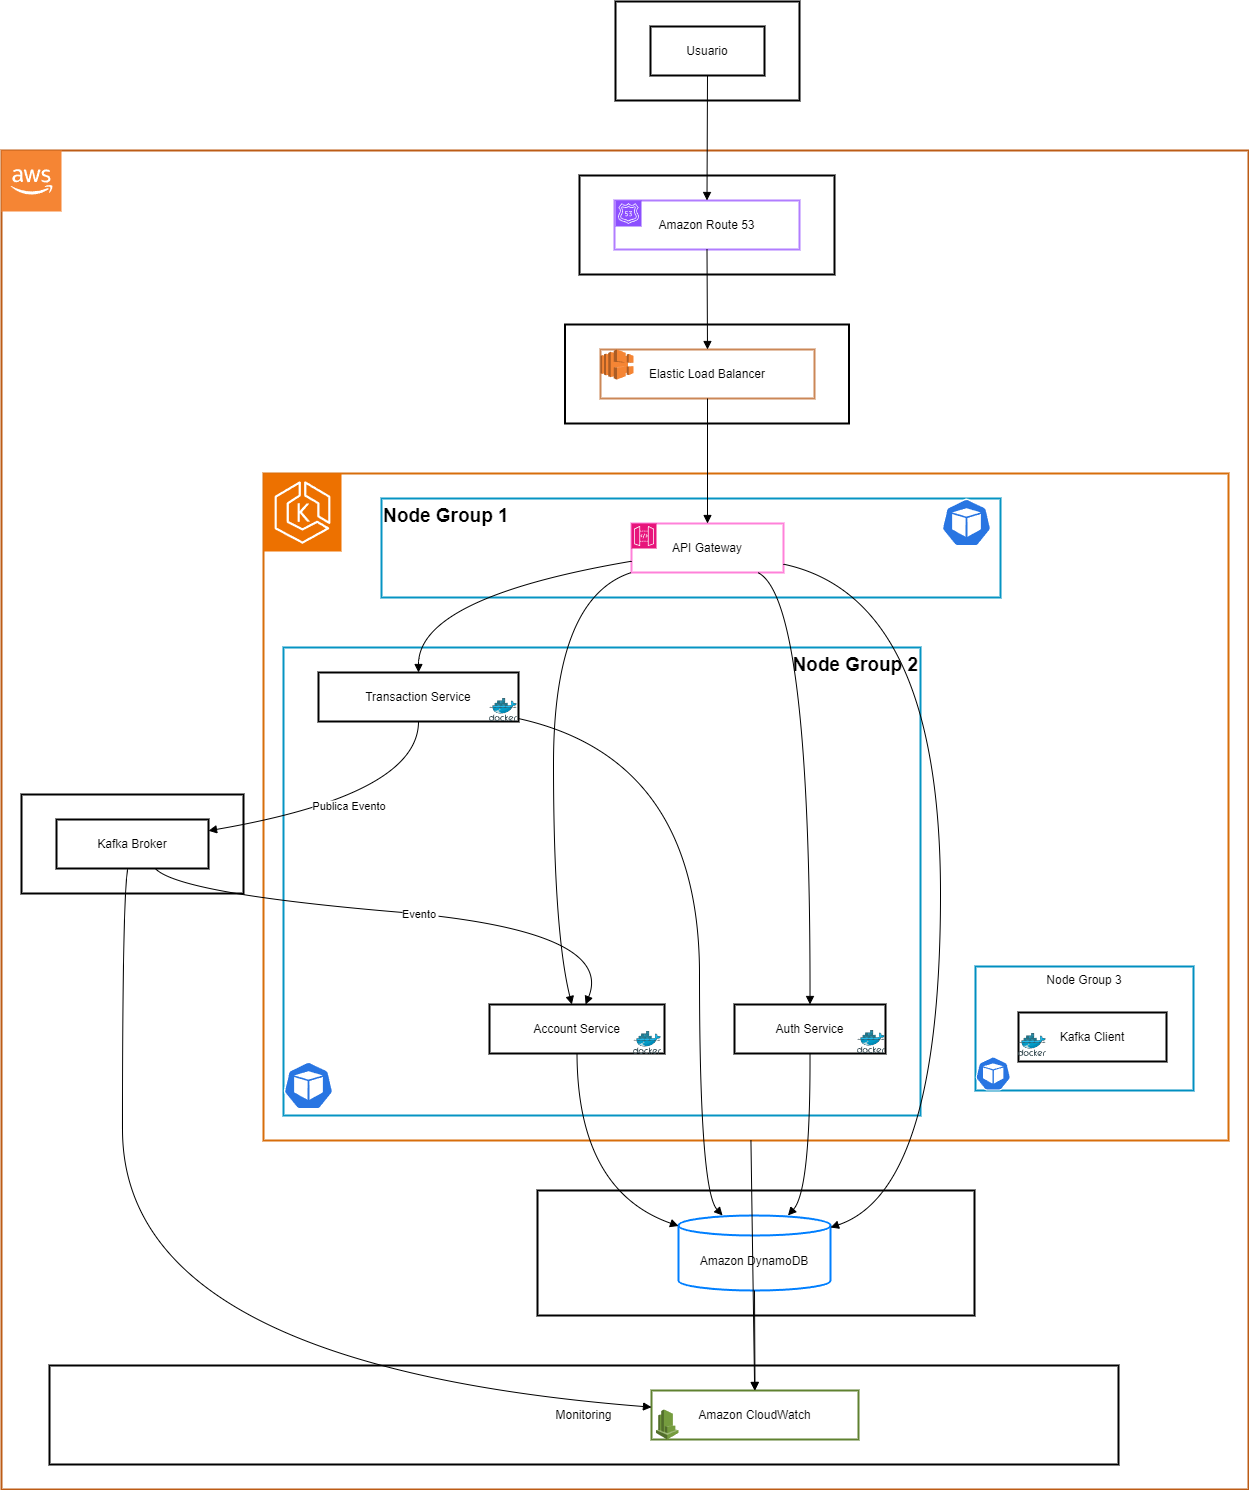
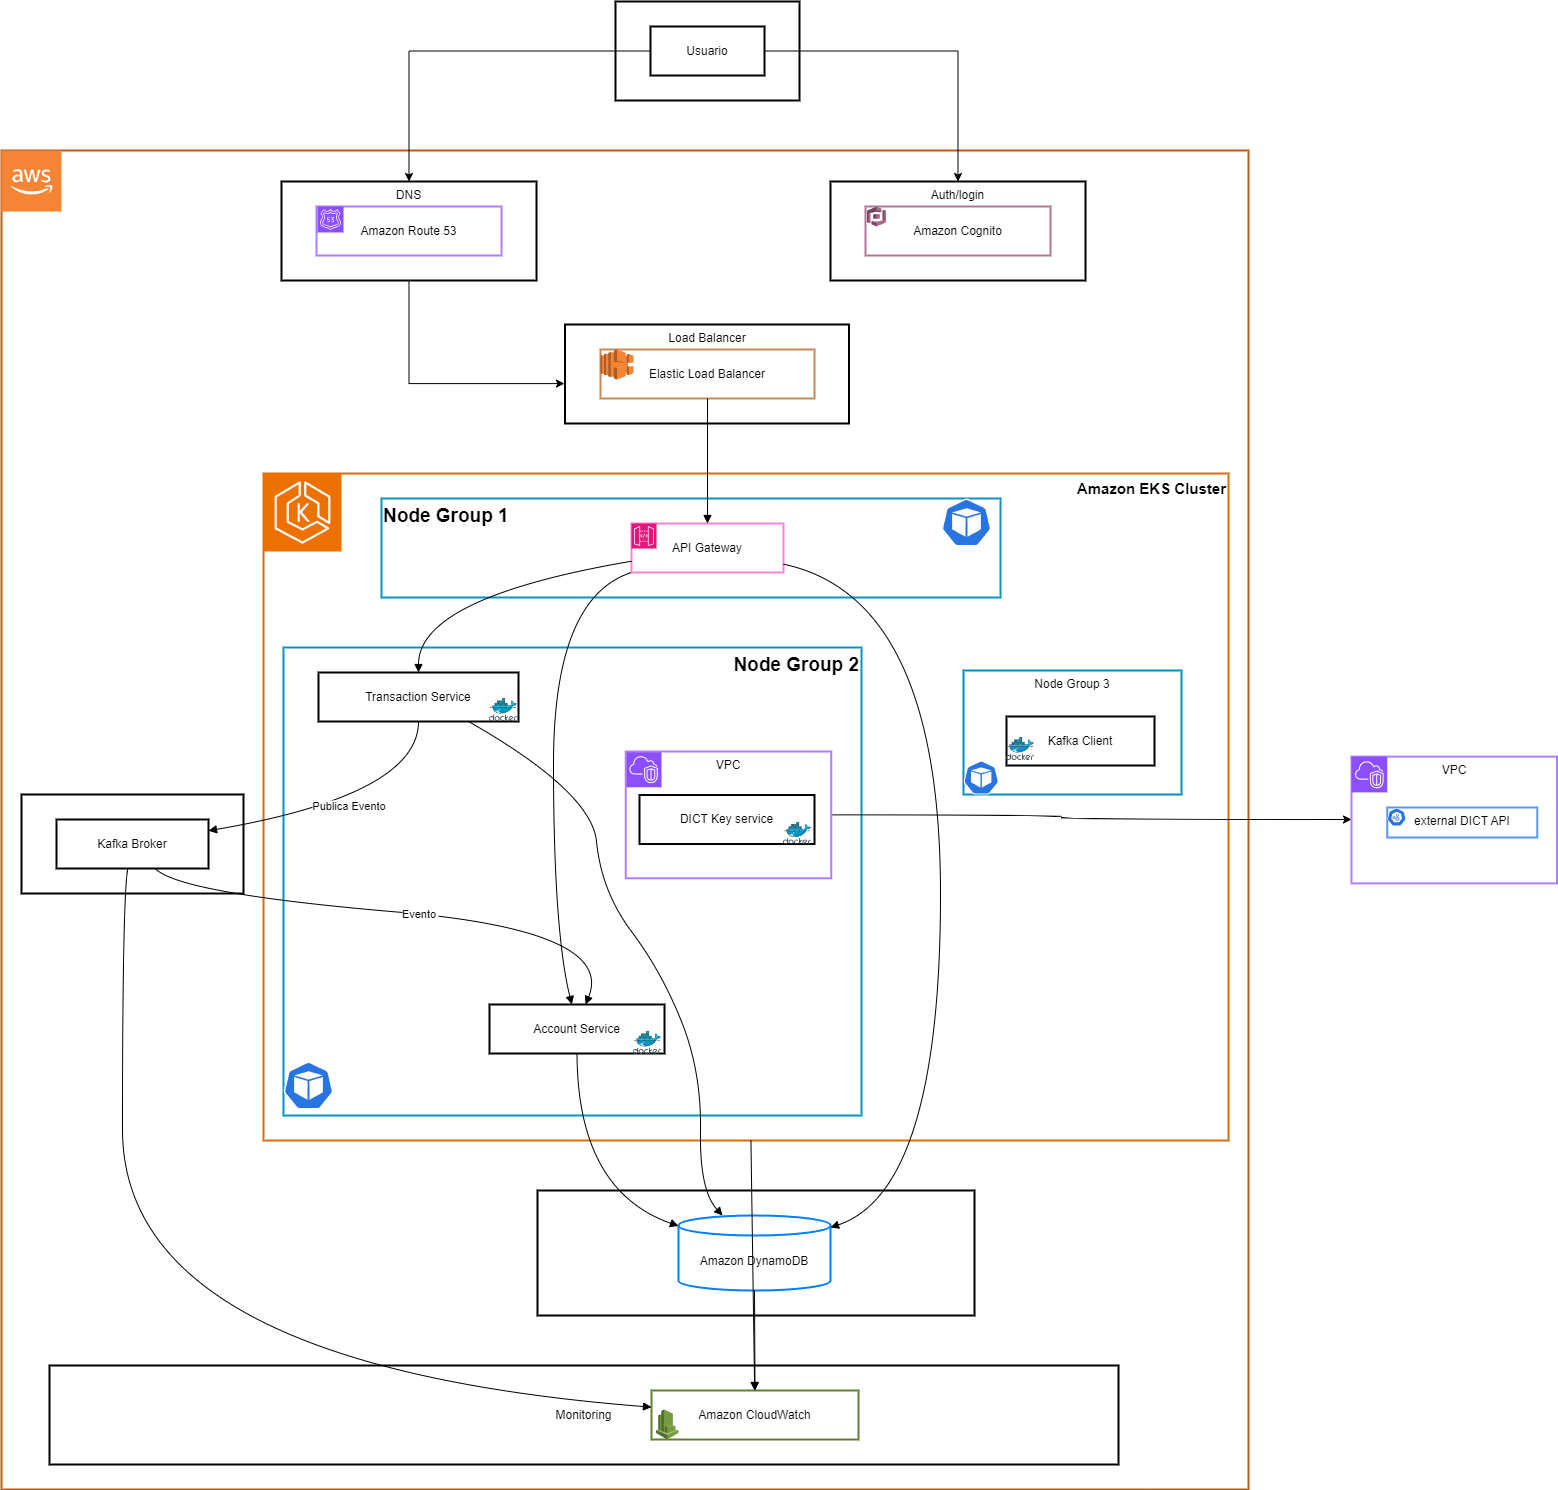
update readme.md

diff --git a/README.md b/README.md
@@ -4,122 +4,141 @@
 
 ## Visão Geral
 
-GO Banking é um serviço backend que simula uma plataforma financeira, permitindo que usuários realizem transferências entre contas de qualquer banco no Brasil, utilizando Open Finance e Pix. O serviço fornece uma visão consolidada dos saldos dos usuários em diferentes bancos e possibilita transferências entre contas.
+GO Banking é um serviço backend que simula uma plataforma financeira, permitindo que usuários realizem transferências entre contas de qualquer banco no Brasil, utilizando Open Finance e Pix. O serviço fornece uma visão consolidada dos saldos dos usuários e possibilita transferências entre contas.
 
 ## Objetivos
 
 O principal objetivo deste projeto é explorar e aprender sobre desenvolvimento backend, design de sistemas e tecnologias modernas como microserviços, arquitetura orientada a eventos, Kubernetes, Docker e serviços da AWS.
 
-## Arquitetura Detalhada
+## Arquitetura Atualizada
 
-A arquitetura é baseada em microserviços, hospedada na AWS, containerizada com Docker e orquestrada com Kubernetes (AWS EKS). Cada componente é implementado como um serviço independente em um contêiner Docker, implantado em pods dentro do cluster Kubernetes.
+A arquitetura é baseada em microserviços, hospedada na AWS, containerizada com Docker e orquestrada com Kubernetes (AWS EKS). Com a adoção do **AWS Cognito**, o serviço de autenticação customizado foi substituído por um serviço gerenciado, simplificando a arquitetura e aumentando a segurança.
 
 ### Componentes e Serviços AWS
 
+#### AWS Cognito
+
+- **Descrição:** Serviço gerenciado para autenticação, autorização e gerenciamento de usuários.
+- **Uso no Projeto:** Gerencia o registro, login e autenticação dos usuários. Emite tokens JWT usados para autenticação nas APIs.
+
 #### AWS Elastic Kubernetes Service (EKS)
 
-- **Descrição**: Serviço gerenciado de Kubernetes que facilita a execução de clusters Kubernetes na AWS.
-- **Uso no Projeto**: Hospeda o cluster Kubernetes onde os contêineres Docker dos microserviços são implantados.
+- **Descrição:** Serviço gerenciado de Kubernetes.
+- **Uso no Projeto:** Hospeda os microserviços containerizados.
 
 #### Docker Containers
 
-- Cada microserviço é empacotado em um contêiner Docker para garantir consistência e portabilidade.
-- **Contêineres**:
-  - **API Gateway Container**: Gerencia as solicitações dos clientes e roteia para os serviços apropriados.
-  - **Auth Service Container**: Responsável pela autenticação e autorização dos usuários.
-  - **Account Service Container**: Gerencia informações das contas e saldos dos usuários.
-  - **Transaction Service Container**: Lida com a criação e processamento das transações.
-  - **Event Consumer Containers**: Consumidores que processam eventos do Kafka.
+- **Contêineres:**
+  - **API Gateway Container:** Gerencia solicitações e integra-se com o Cognito para autenticação.
+  - **Account Service Container:** Gerencia informações de contas e saldos.
+  - **Transaction Service Container:** Lida com transações e interage com o Kafka.
+  - **Event Consumer Containers:** Processam eventos do Kafka.
 
 #### AWS Managed Streaming for Apache Kafka (Amazon MSK)
 
-- **Descrição**: Serviço gerenciado para executar clusters Apache Kafka na AWS.
-- **Uso no Projeto**: Serve como o barramento de eventos para comunicação orientada a eventos entre os serviços.
+- **Descrição:** Serviço gerenciado para clusters Kafka.
+- **Uso no Projeto:** Barramento de eventos para comunicação entre serviços.
 
 #### Amazon DynamoDB
 
-- **Descrição**: Banco de dados NoSQL rápido e flexível.
-- **Uso no Projeto**: Armazena dados de contas, transações e eventos.
+- **Descrição:** Banco de dados NoSQL.
+- **Uso no Projeto:** Armazena dados de contas, transações e eventos.
 
-#### AWS CloudWatch
+#### Outros Serviços AWS
 
-- **Descrição**: Serviço de monitoramento para recursos AWS e aplicações.
-- **Uso no Projeto**: Monitoramento e logging dos recursos AWS e aplicações em execução.
-
-#### AWS IAM
-
-- **Descrição**: Gerenciamento de acesso seguro aos serviços e recursos da AWS.
-- **Uso no Projeto**: Controle de acesso e políticas de segurança para recursos AWS.
-
-#### AWS Elastic Load Balancing (ELB)
-
-- **Descrição**: Distribui automaticamente o tráfego de entrada entre múltiplas instâncias.
-- **Uso no Projeto**: Distribui o tráfego para os nós do EKS e balanceia a carga entre os pods.
-
-#### Amazon Route 53
-
-- **Descrição**: Serviço de DNS escalável e altamente disponível.
-- **Uso no Projeto**: Gerencia o roteamento de tráfego para o ELB e serviços.
-
-#### AWS Key Management Service (KMS)
-
-- **Descrição**: Serviço gerenciado para criação e controle de chaves de criptografia.
-- **Uso no Projeto**: Gerencia as chaves de criptografia para dados em repouso.
+- **AWS CloudWatch:** Monitoramento e logging.
+- **AWS IAM:** Controle de acesso e políticas de segurança.
+- **AWS Elastic Load Balancing (ELB):** Distribuição de tráfego.
+- **Amazon Route 53:** Gerenciamento de DNS.
+- **AWS KMS:** Gerenciamento de chaves de criptografia.
 
 ### Arquitetura Lógica
 
-A seguir, detalhamos como os componentes interagem dentro da arquitetura do sistema.
-
 #### Fluxo de Dados
 
-1. **Cliente (Usuário)**: Inicia solicitações através de aplicativos cliente (web/mobile).
+1. **Registro/Login do Usuário:**
+   - Usuário interage diretamente com o AWS Cognito para registro e login.
+   - Cognito emite tokens JWT (ID token, Access token, Refresh token).
 
-2. **Amazon Route 53**: Resolve o domínio para o ELB.
+2. **Solicitações à API:**
+   - Usuário faz chamadas à API incluindo o token de acesso.
+   - **Amazon Route 53** resolve o domínio para o ELB.
+   - **ELB** distribui o tráfego para o API Gateway no EKS.
 
-3. **Elastic Load Balancer (ELB)**: Distribui o tráfego para os nós do cluster EKS.
+3. **API Gateway:**
+   - Configurado com o Cognito Authorizer para validar tokens JWT.
+   - Roteia solicitações autenticadas para os microserviços.
 
-4. **AWS EKS Cluster**:
+4. **Microserviços:**
+   - **Account Service** e **Transaction Service** processam as solicitações.
+   - Utilizam informações do token JWT para autorização e identificação do usuário.
+   - Interagem com o **DynamoDB** e **Kafka** conforme necessário.
 
-   - **API Gateway**:
-     - Recebe as solicitações dos usuários.
-     - Roteia as solicitações para os microserviços apropriados.
-   - **Auth Service**:
-     - Autentica e autoriza usuários.
-   - **Account Service**:
-     - Gerencia informações de contas e saldos.
-   - **Transaction Service**:
-     - Processa transações e interage com o Kafka para publicar eventos.
+5. **DICT Key Service**:
+   - Consulta a **API do Banco Central** para obter detalhes da chave.
 
-5. **Amazon MSK (Kafka)**:
+6. **Processamento de Eventos:**
+   - **Transaction Service** publica eventos no **Amazon MSK (Kafka)**.
+   - **Account Service** consome eventos para atualizar saldos.
 
-   - **Produtores**: Microserviços que publicam eventos (e.g., Transaction Service).
-   - **Consumidores**: Microserviços que consomem eventos (e.g., Account Service para atualizar saldos).
+7. **Persistência e Estado:**
+   - **DynamoDB** armazena dados de contas, transações e eventos.
 
-6. **Amazon DynamoDB**:
+8. **Monitoramento e Logging:**
+   - **AWS CloudWatch** coleta logs e métricas.
 
-   - Armazena dados persistentes como contas, transações e eventos.
+### Diagrama de Arquitetura
 
-7. **AWS CloudWatch**:
+![alt text](go-banking-design.png)
 
-   - Coleta logs e métricas dos serviços.
-   - Configurado para alertas e dashboards.
+### Considerações de Infraestrutura
 
-### Estratégia de Sharding no Kubernetes
+- **NAT Gateway**:
+  - Necessário para que o DICT Key Service acesse a internet a partir de sub-redes privadas.
+- **Grupos de Segurança**:
+  - Restringir tráfego de saída do DICT Key Service.
+- **Configurações de Rede**:
+  - Assegurar que apenas os serviços autorizados possam comunicar-se com o DICT Key Service.
 
-- **Namespaces**:
+### Tecnologias Utilizadas
 
-  - Separação lógica dos ambientes (e.g., dev, staging, prod).
-  - Permite gerenciamento isolado de recursos e políticas.
+- **Linguagem de Programação**: Go
+- **Banco de Dados**: Amazon DynamoDB
+- **Message Broker**: Apache Kafka (Amazon MSK)
+- **Autenticação**: AWS Cognito
+- **Containerização**: Docker
+- **Orquestração**: Kubernetes (AWS EKS)
+- **Integração Externa**: API do Banco Central via DICT Key Service
+- **Monitoramento**: AWS CloudWatch
+- **Infraestrutura como Código**: AWS CloudFormation ou Terraform
 
-- **Node Groups**:
+## Decisões de Design do Sistema
 
-  - Grupos de nós com configurações específicas (e.g., tamanho de instância, capacidade).
-  - Podem ser usados para separar cargas de trabalho (e.g., serviços críticos vs. serviços auxiliares).
+### Adição do DICT Key Service
 
-- **Horizontal Pod Autoscaling (HPA)**:
+- **Motivação**: Necessidade de validar chaves Pix usando a API do Banco Central.
+- **Benefícios**:
+  - **Modularidade**: Serviço separado facilita manutenção e escalabilidade.
+  - **Reutilização**: Pode ser usado por outros serviços no futuro.
+- **Implementação**:
+  - Acesso seguro à internet via NAT Gateway.
+  - Armazenamento seguro de credenciais e configuração.
 
-  - Ajusta automaticamente o número de pods com base em métricas (e.g., uso de CPU, custom metrics).
-  - Garante que o serviço possa escalar horizontalmente conforme a demanda.
+*(Demais decisões conforme anteriormente descritas.)*
 
-### Diagrama Detalhado da Arquitetura
-![design](go-banking-design.png)
+## Como Executar o Projeto
+
+*(A ser desenvolvido conforme o avanço do projeto.)*
+
+## Notas
+
+- **Disclaimer**: GO Banking é um projeto experimental para fins de estudo e teste.
+- **Contribuições**: Sugestões e discussões sobre design e arquitetura são bem-vindas.
+
+---
+
+**Considerações Finais**
+
+A integração com a API do Banco Central é essencial para validar chaves Pix e garantir a segurança e confiabilidade das transações. A adição do DICT Key Service como um microserviço dedicado permite uma arquitetura mais modular e facilita a manutenção.
+
+---
